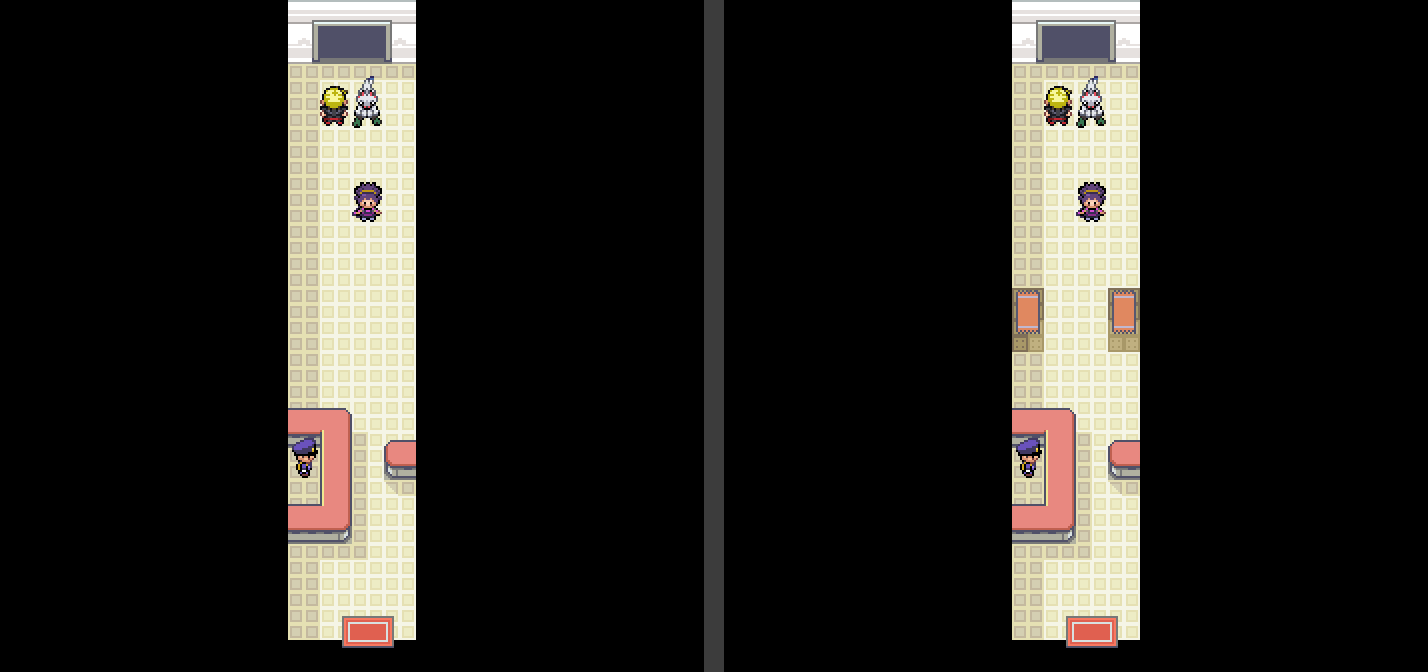
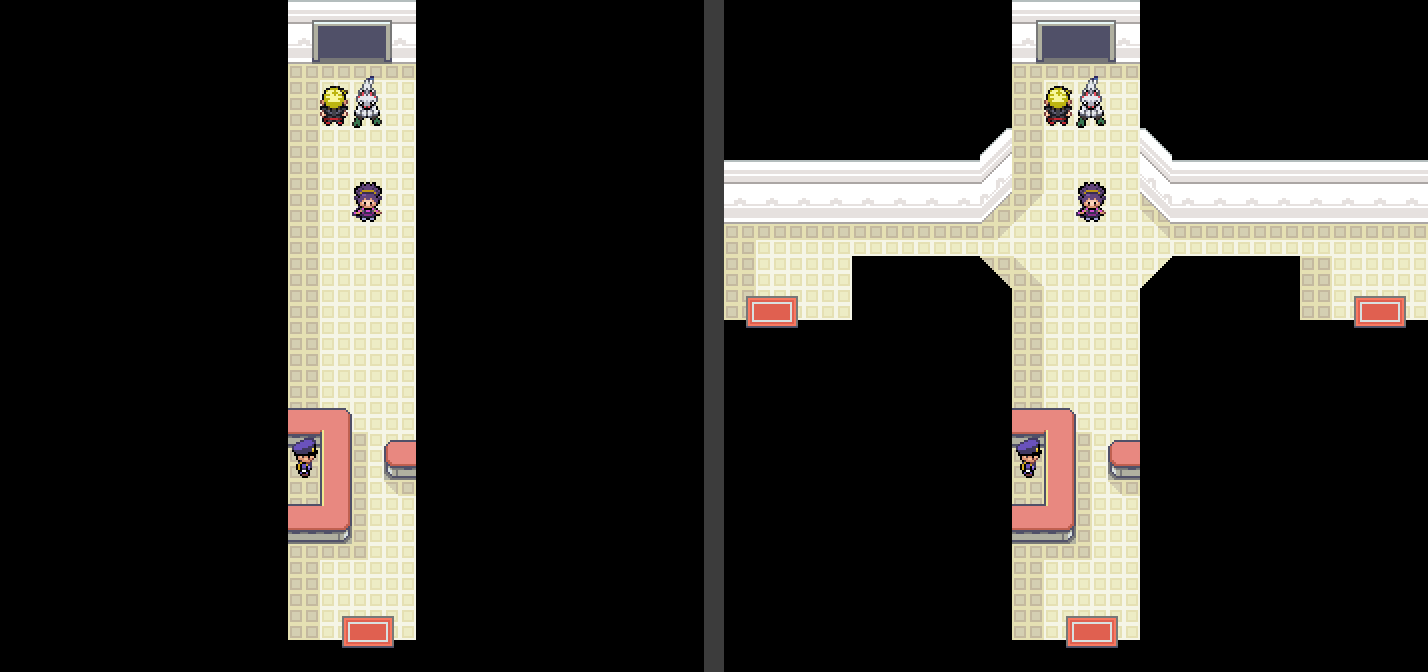
As alas do ReceptionGate de volta, copiadas do HnS
Troca a solucao do commit anterior: em vez de inventar portas laterais no
corredor com as pecas 7/15 e 29/37 do primario, as duas alas do portao
voltaram inteiras e as saidas sao as mesmas do HnS.

  warp 3 (1,9)  -> Route 28, na parede de tras da ala oeste
  warp 4 (20,9) -> Route 22, na parede de tras da ala leste

As duas ficam no tapete vermelho (secundario 67, MB_SOUTH_ARROW_WARP),
ladeado por 66 e 68 e fechado por 193/194/195 embaixo - a mesma peca da
saida da Route 26 em (11,19).

O porte e copia direta. Os 46 metatiles distintos que o mapa do HnS usa
existem nos nossos tilesets no mesmo indice e com arte identica (conferido
renderizando metatile por metatile e comparando pixel, nao byte: la sao
16 B por metatile em 2 camadas, aqui 24 B em 3). So o formato do bloco
muda - metatile de 10 bits com colisao nos bits 10-11 e primario de 640
vira metatile de 11 bits com colisao no bit 11 e primario de 1024.

O resultado difere do mapa que estava no repo em 83 celulas, todas nas
linhas 4 a 10, que e exatamente o que tinha sido apagado. As duas portas
do topo continuam identicas.

BFS a pe de (11,19): 101 celulas alcancaveis, contra 65 antes, e os cinco
warps estao entre elas. Antes, (1,9) e os quatro vizinhos eram metatile 8
com colisao: entrar pela porta da Route 28 largava o jogador dentro da
parede, em mapa indoor, sem Fly e com allow_escaping false.

As alas estao vazias. ReceptionGate_EventScript_SilverGuard e
[…]

Changed region(s): [[0.493, 0.1875, 0.7395, 0.5312], [0.8011, 0.1875, 1.0, 0.5], [0.7703, 0.4062, 0.8011, 0.5312]]

diff --git a/bug/B07-warps-e-gatilhos-mortos.md b/bug/B07-warps-e-gatilhos-mortos.md
@@ -35,26 +35,39 @@ se repete com o Silver escondido. Trocar por uma var ou flag própria
 `LilycoveCity_MoveDeletersHouse`. Vale 1 e o objeto 1 de Blackthorn é o próprio
 Move Deleter — funciona por coincidência; quebra se a ordem dos objetos mudar.
 
-## Fechado (25/10/2026) — as duas portas laterais do ReceptionGate
+## Fechado (25/10/2026) — as alas do ReceptionGate de volta
 
-O provisório acabou: as duas aberturas laterais do portão viraram portas de
-verdade no corredor, como no HnS.
+As duas alas do portão tinham sido apagadas (83 das 462 células viraram o
+metatile 8, sólido) e as duas saídas laterais foram junto. O `warp 3` ficou
+para trás em **(1,9)**, metatile 8 com colisão, e os quatro vizinhos também:
+entrar pela porta da Route 28 largava o jogador dentro da parede, em mapa
+indoor, sem Fly e com `allow_escaping: false`. Soft-lock de verdade.
+BFS a pé de (11,19) no mapa antigo: 65 células alcançáveis, nenhuma delas (1,9).
 
-- `warp 3` saiu de **(1,9)** — que era metatile 8, sólido, dentro da ala
-  apagada, sem vizinho andável — para a **porta oeste (9,9)**, metatile 7
-  (`MB_WEST_ARROW_WARP`) → Route 28. Era soft-lock de verdade: entrar pela
-  porta da Route 28 largava o jogador dentro da parede, em mapa indoor, sem
-  Fly e com `allow_escaping: false`.
-- `warp 4` saiu de (9,9) — chão comum sem arte — para a **porta leste
-  (12,9)**, metatile 29 (`MB_EAST_ARROW_WARP`) → Route 22.
-- A rachadura na parede oeste (`bg_event` em (8,9) +
-  `ReceptionGate_EventScript_HiddenPassage`) foi removida: ela existia só
-  para dar uma volta da Route 22, e agora disputaria a mesma célula (9,9)
-  com a porta da Route 28.
+As alas voltaram, copiadas célula a célula do layout do HnS, e com elas as
+duas saídas dele:
 
-Desenho: peças 7/15 (oeste) e 29/37 (leste) do primário `Johto_Building`, as
-mesmas portas laterais dos portões de Johto (ver `Gate_Route31_VioletCity`).
-Quatro células do `map.bin` mudaram, nenhuma outra.
+- `warp 3` **(1,9)** → Route 28, na parede de trás da ala oeste
+- `warp 4` **(20,9)** → Route 22, na parede de trás da ala leste
+
+As duas ficam no tapete vermelho (secundário 67, `MB_SOUTH_ARROW_WARP`), a
+mesma peça da saída da Route 26 em (11,19). BFS agora: 101 células, e os cinco
+warps estão entre elas.
+
+O porte é cópia direta: os **46 metatiles distintos** que o mapa do HnS usa
+existem nos nossos tilesets **no mesmo índice e com arte idêntica** (conferido
+renderizando metatile por metatile). Só o formato do bloco muda — metatile de
+10 bits com colisão nos bits 10-11 vira metatile de 11 bits com colisão no bit
+11.
+
+A rachadura na parede oeste (`bg_event` em (8,9) +
+`ReceptionGate_EventScript_HiddenPassage`) foi removida: ela existia só para
+dar uma volta da Route 22, que agora tem porta própria.
+
+As alas estão vazias. `ReceptionGate_EventScript_SilverGuard` e
+`ReceptionGate_EventScript_KantoGuard`, que já estavam no `scripts.inc` sem
+dono, são os dois guardas que o HnS mantém em (7,7) e (14,7) — decisão do
+autor se entram.
 
 ## Correção aplicada (30/09/2026)
 
